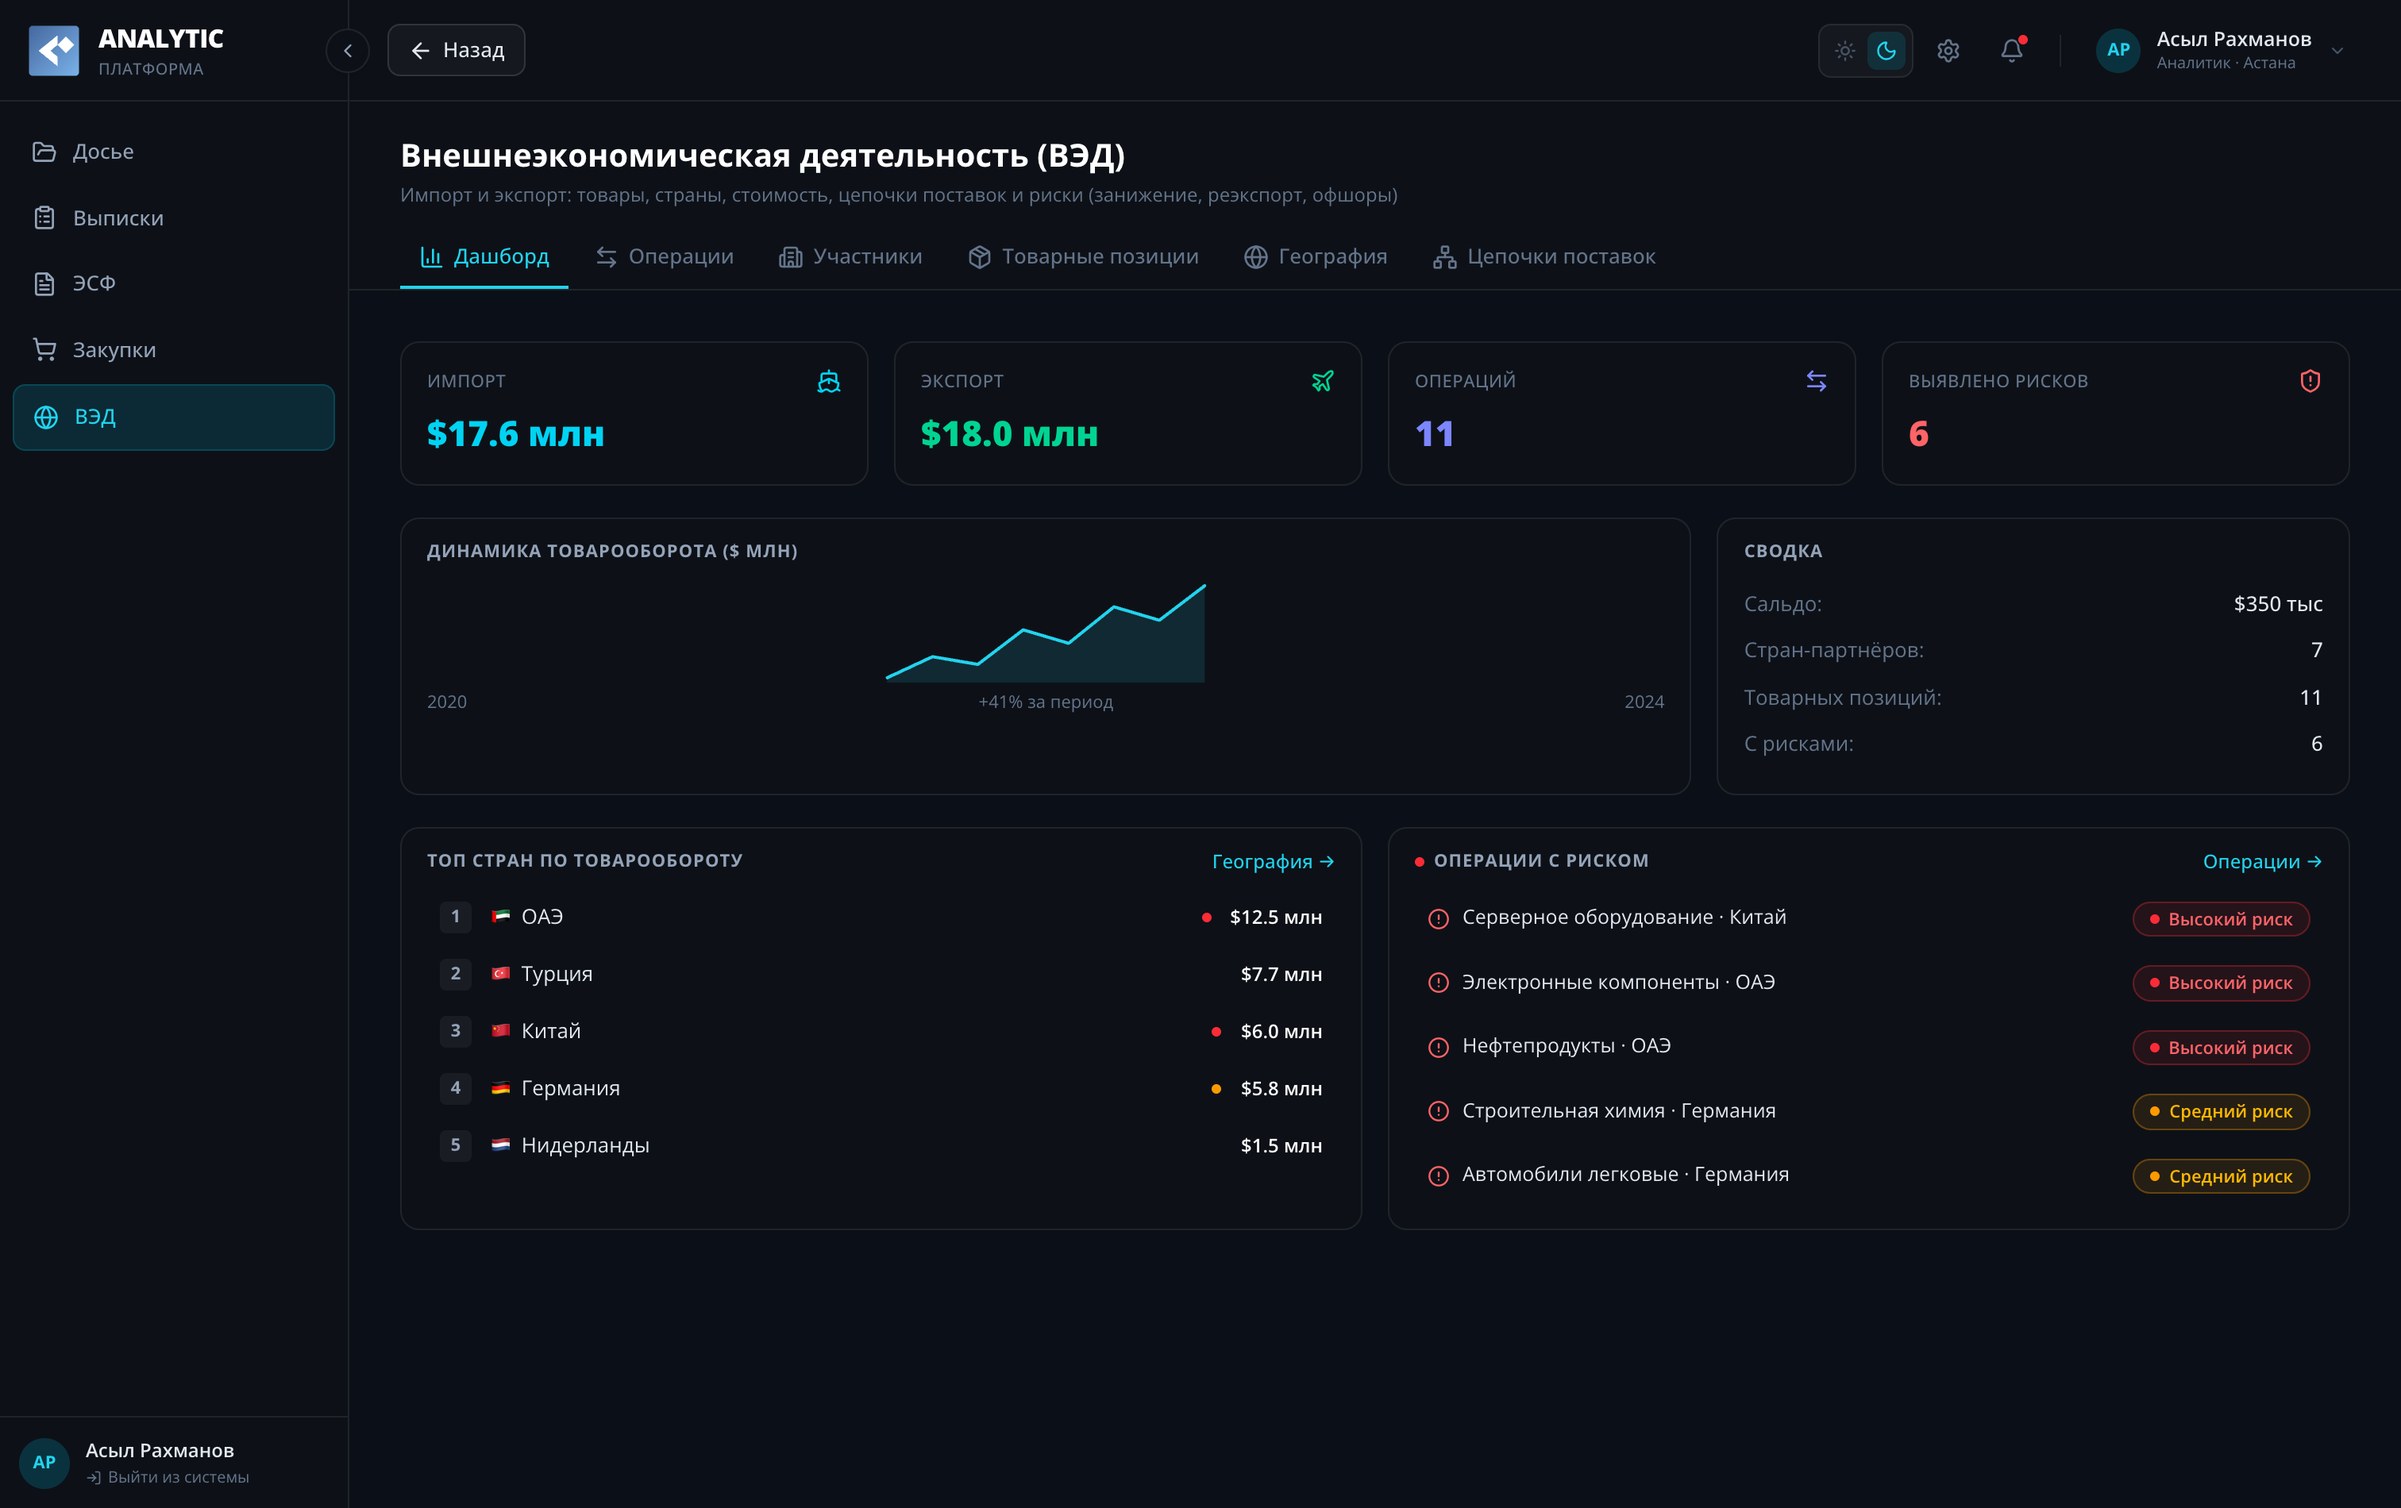
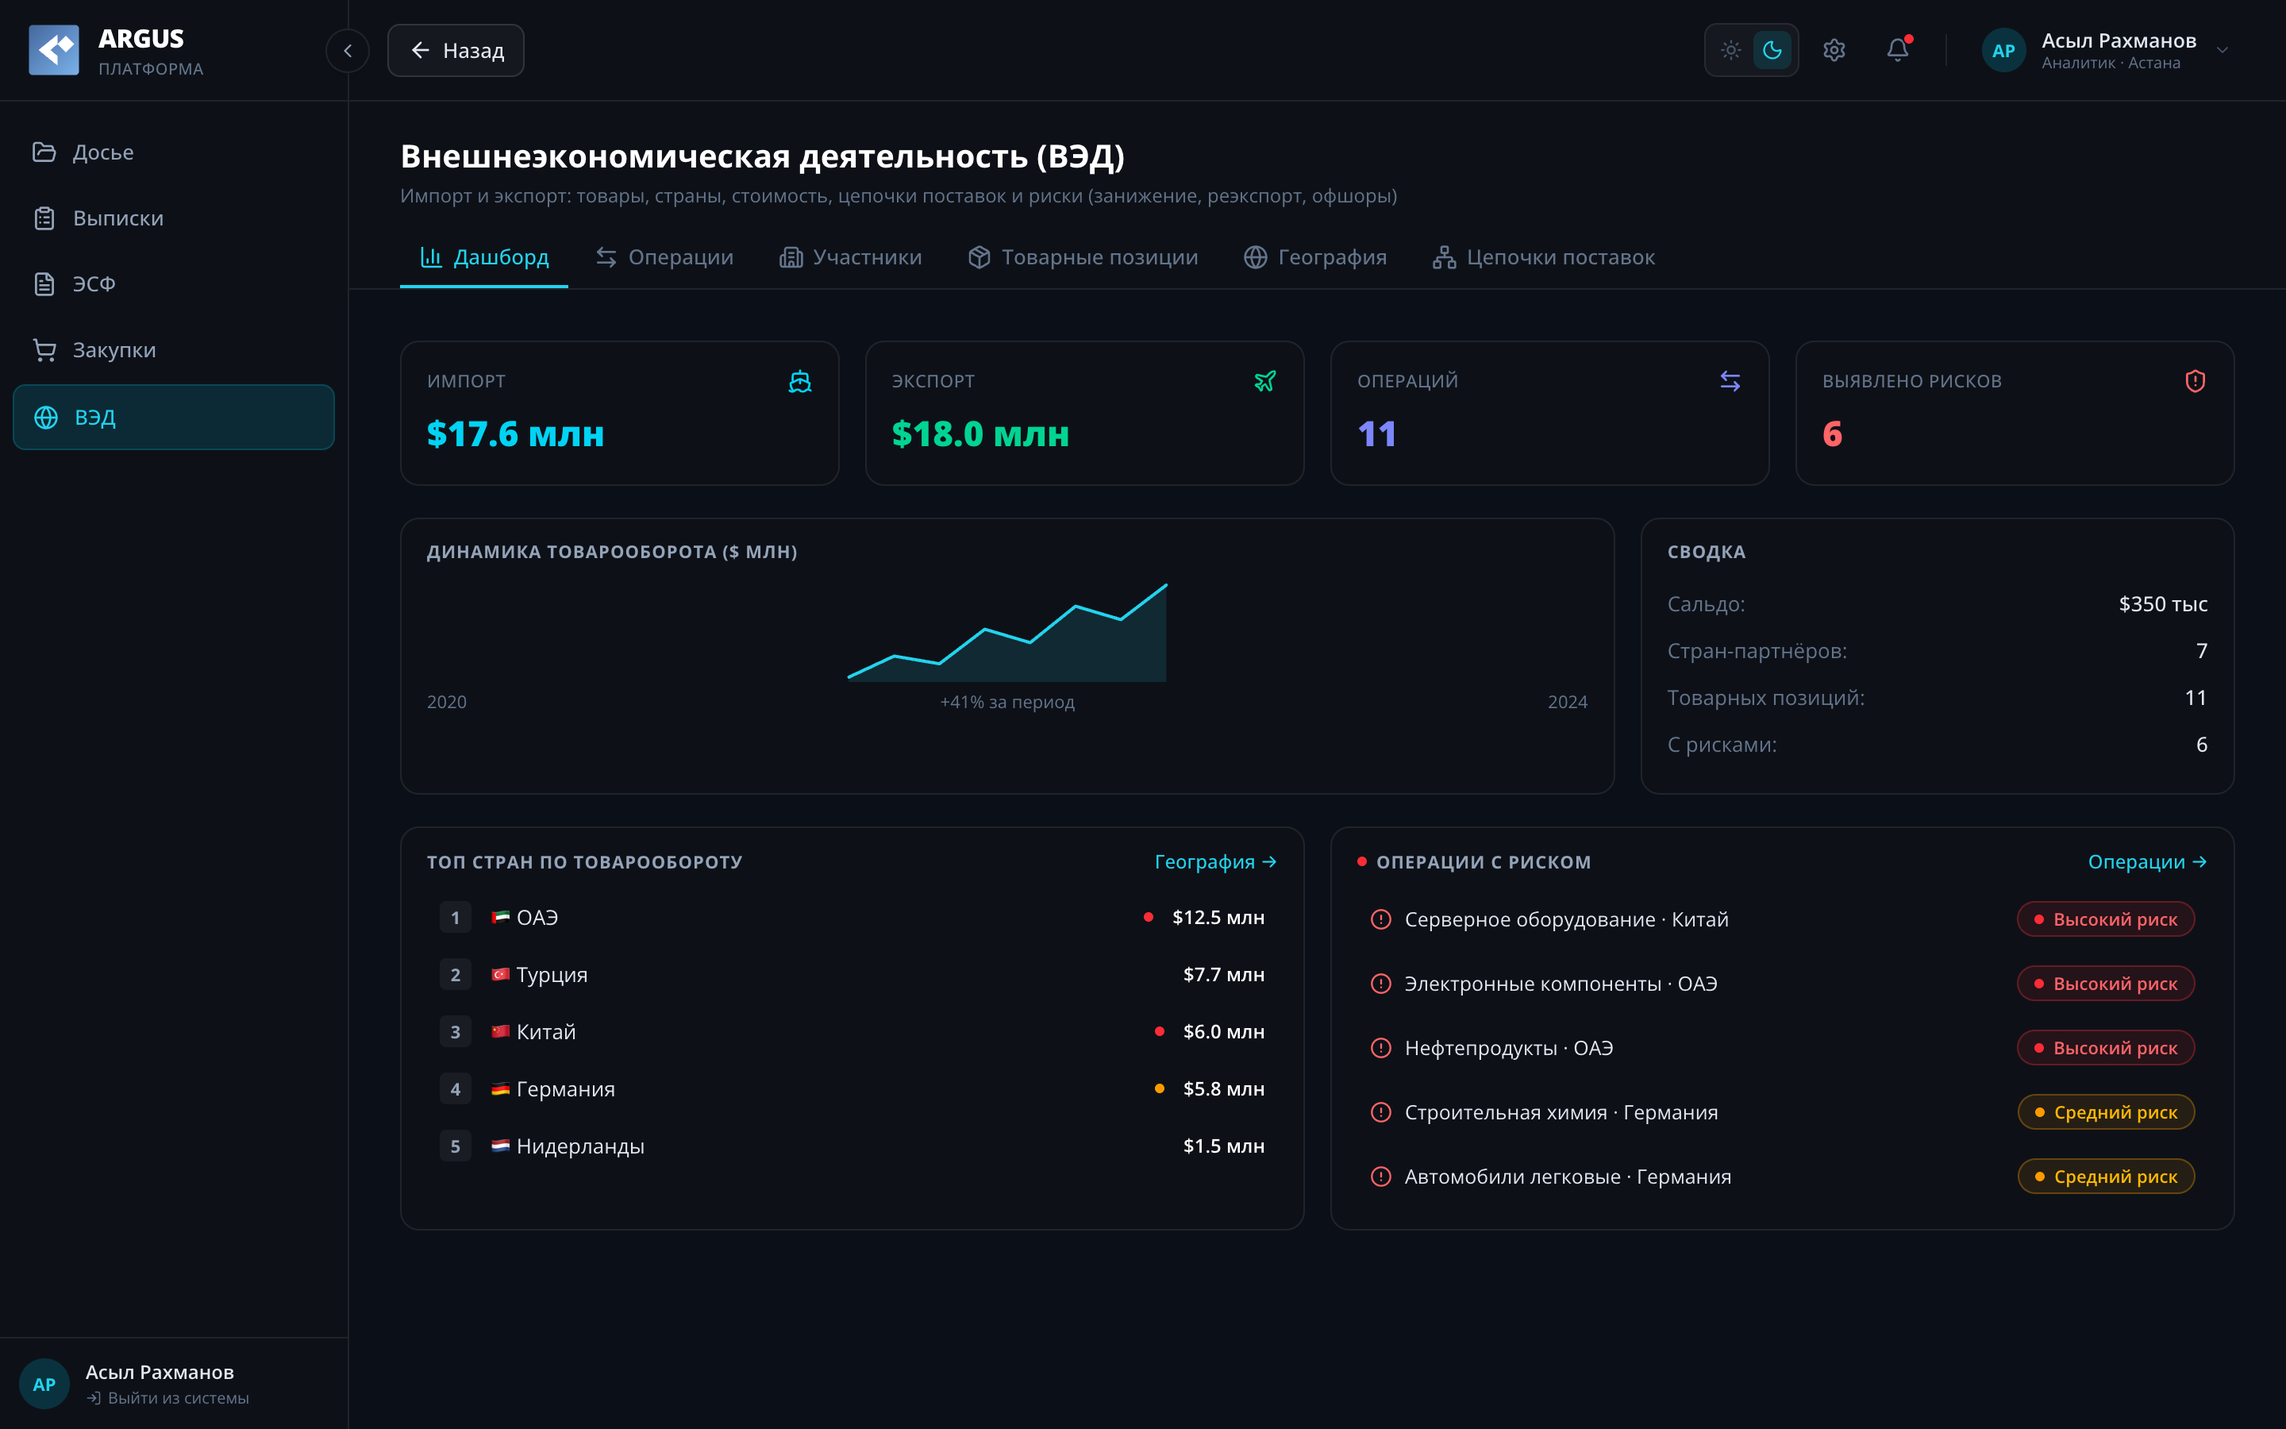
Argus: add company dossier, procurement network, statements, ВЭД (2x retina, ARGUS-branded) — 8 screens

diff --git a/main.js b/main.js
@@ -361,7 +361,7 @@ const PREVIEW = {
   'speakup': ['shots/candor-1.png', 'shots/candor-2.png', 'shots/candor-3.png', 'shots/candor-4.png', 'shots/candor-5.png'],
   'ai-landings': ['shots/prism-1.png', 'shots/prism-2.png', 'shots/prism-3.png', 'shots/prism-4.png', 'shots/prism-5.png'],
   'digital-office': ['shots/cadence-1.png', 'shots/cadence-2.png', 'shots/cadence-3.png', 'shots/cadence-4.png', 'shots/cadence-5.png'],
-  'spk': ['shots/spk.png', 'shots/ean-person.png', 'shots/ean-esf.png', 'shots/ean-proc.png'],
+  'spk': ['shots/spk.png', 'shots/ean-company.png', 'shots/ean-person.png', 'shots/ean-esf.png', 'shots/ean-proc.png', 'shots/ean-network.png', 'shots/ean-vypiski.png', 'shots/ean-ved.png'],
   'foodi': ['shots/foodi.png', 'shots/foodi-search.png', 'shots/foodi-restaurant.png', 'shots/foodi-dish.png', 'shots/foodi-cart.png', 'shots/foodi-checkout.png', 'shots/foodi-order.png', 'shots/foodi-reviews.png', 'shots/foodi-profile.png']
 };
 const MOBILE = { 'foodi': true };
@@ -373,7 +373,7 @@ const SCREENS = {
   'aml': ['shots/aegis-1.png', 'shots/aegis-2.png', 'shots/aegis-3.png', 'shots/aegis-4.png', 'shots/aegis-5.png'],
   'ai-landings': ['shots/prism-1.png', 'shots/prism-2.png', 'shots/prism-3.png', 'shots/prism-4.png', 'shots/prism-5.png'],
   'digital-office': ['shots/cadence-1.png', 'shots/cadence-2.png', 'shots/cadence-3.png', 'shots/cadence-4.png', 'shots/cadence-5.png'],
-  'spk': ['shots/ean-login.png', 'shots/ean-person.png', 'shots/ean-esf.png', 'shots/ean-proc.png'],
+  'spk': ['shots/ean-login.png', 'shots/ean-company.png', 'shots/ean-person.png', 'shots/ean-esf.png', 'shots/ean-proc.png', 'shots/ean-network.png', 'shots/ean-vypiski.png', 'shots/ean-ved.png'],
   'foodi': ['shots/foodi.png', 'shots/foodi-search.png', 'shots/foodi-restaurant.png', 'shots/foodi-dish.png', 'shots/foodi-cart.png', 'shots/foodi-checkout.png', 'shots/foodi-order.png', 'shots/foodi-reviews.png', 'shots/foodi-profile.png']
 };
 
